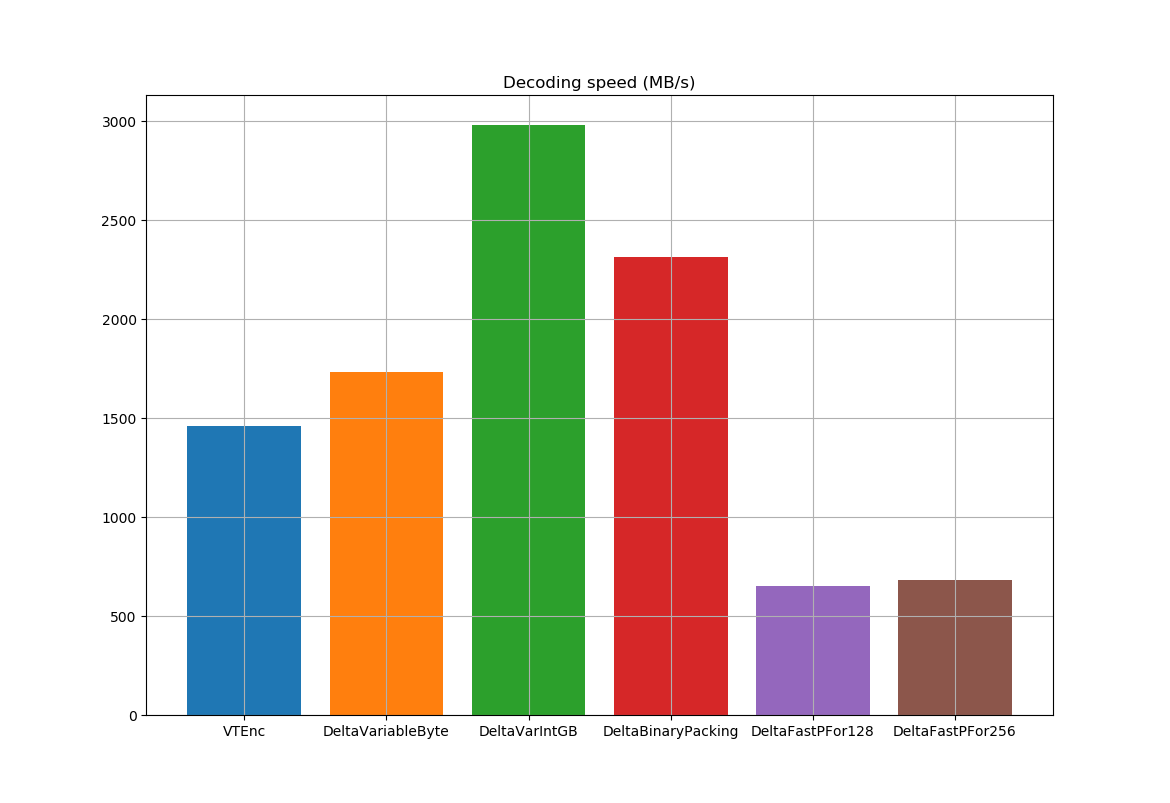
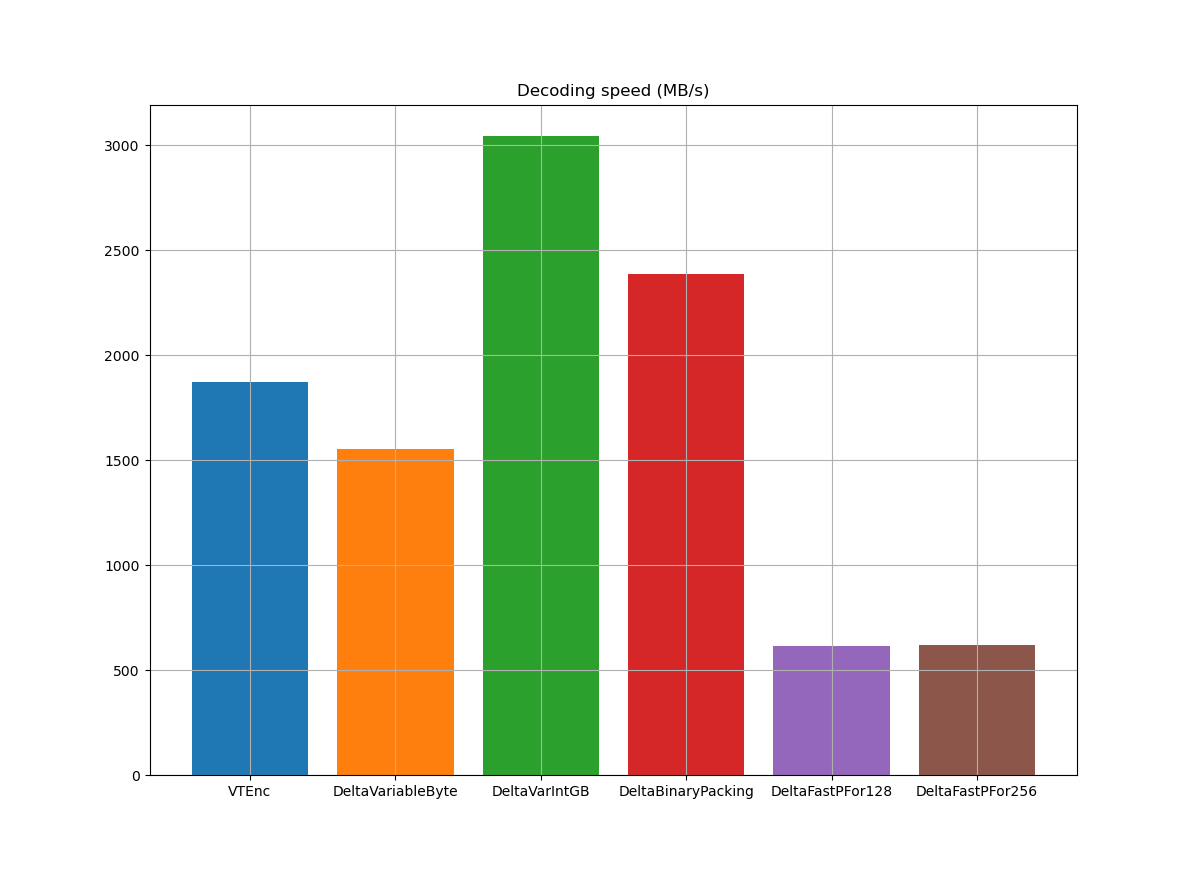
update Results charts for gov2.sorted data set on README.md

diff --git a/README.md b/README.md
@@ -6,17 +6,18 @@
 
 ## Results
 
-*This is a work-in-progress section. Last updated on: 2020-05-20*
+*This is a work-in-progress section. Last updated on: 2022-03-01*
 
-For reference, VTEnc has been tested on a laptop Ubuntu Desktop 19.10 with a Core i7-6700HQ CPU @ 2.60GHz x 8, using different data sets and comparing it with other integer compression algorithms. See [Tests](https://github.com/vteromero/VTEnc#tests) and [Benchmarks](https://github.com/vteromero/VTEnc#benchmarks) below for further information.
+For reference, VTEnc has been tested on a laptop Ubuntu Desktop 21.10 with a Core i7-6700HQ CPU @ 2.60GHz x 8, using different data sets and comparing it with other integer compression algorithms. See [Tests](https://github.com/vteromero/VTEnc#tests) and [Benchmarks](https://github.com/vteromero/VTEnc#benchmarks) below for further information.
 
 * `gov2.sorted`:
 
- | ![Encoding speed vs ratio](doc/images/gov2_enc_speed_vs_ratio.png) | ![Decoding speed](doc/images/gov2_dec_speed.png) |
+ | ![Encoding speed vs ratio](doc/images/gov2_enc_speed_vs_ratio.png) | ![Decoding speed vs ratio](doc/images/gov2_dec_speed_vs_ratio.png) |
+ | ![Encoding speed](doc/images/gov2_enc_speed.png) | ![Decoding speed](doc/images/gov2_dec_speed.png) |
  |:---:|:---:|
 
- _(\*) VTEnc's results on "Encoding speed vs ratio" chart are for the following values of the encoding parameter `min_cluster_length`: 1, 2, 4, 8, 16, 32, 64, 128 and 256._  
- _(\*\*) VTEnc's decoding speed is for `min_cluster_length` = 256._
+ _(\*) VTEnc's results on "speed vs ratio" charts are for the following values of the encoding parameter `min_cluster_length`: 1, 2, 4, 8, 16, 32, 64, 128 and 256._
+ _(\*\*) VTEnc's results on "speed" charts are for `min_cluster_length` = 256._
 
 * Timestamps (`ts.txt`):
 
